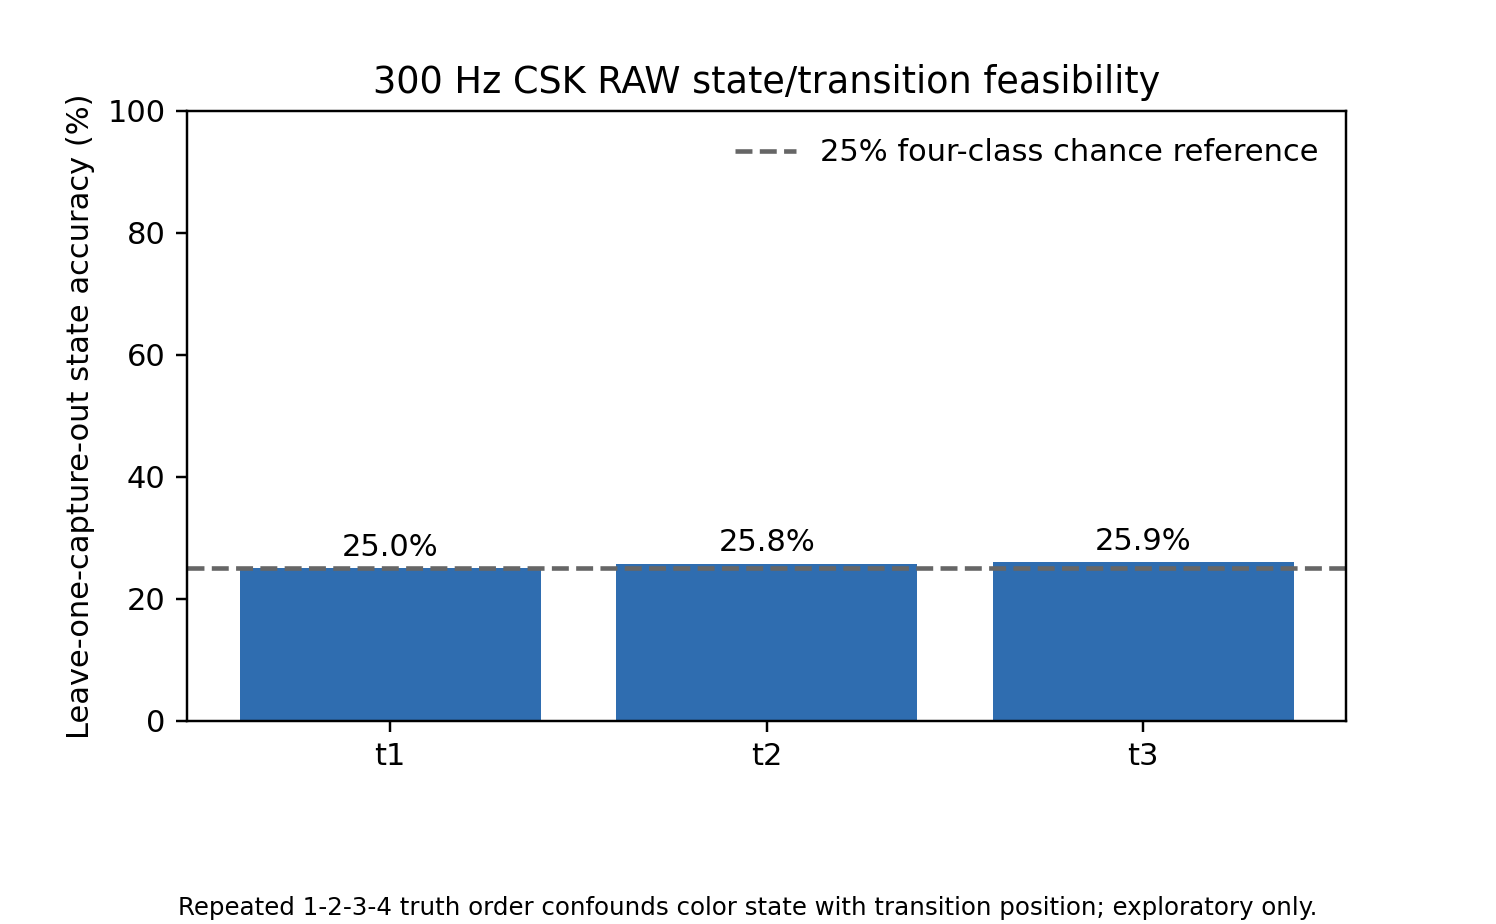
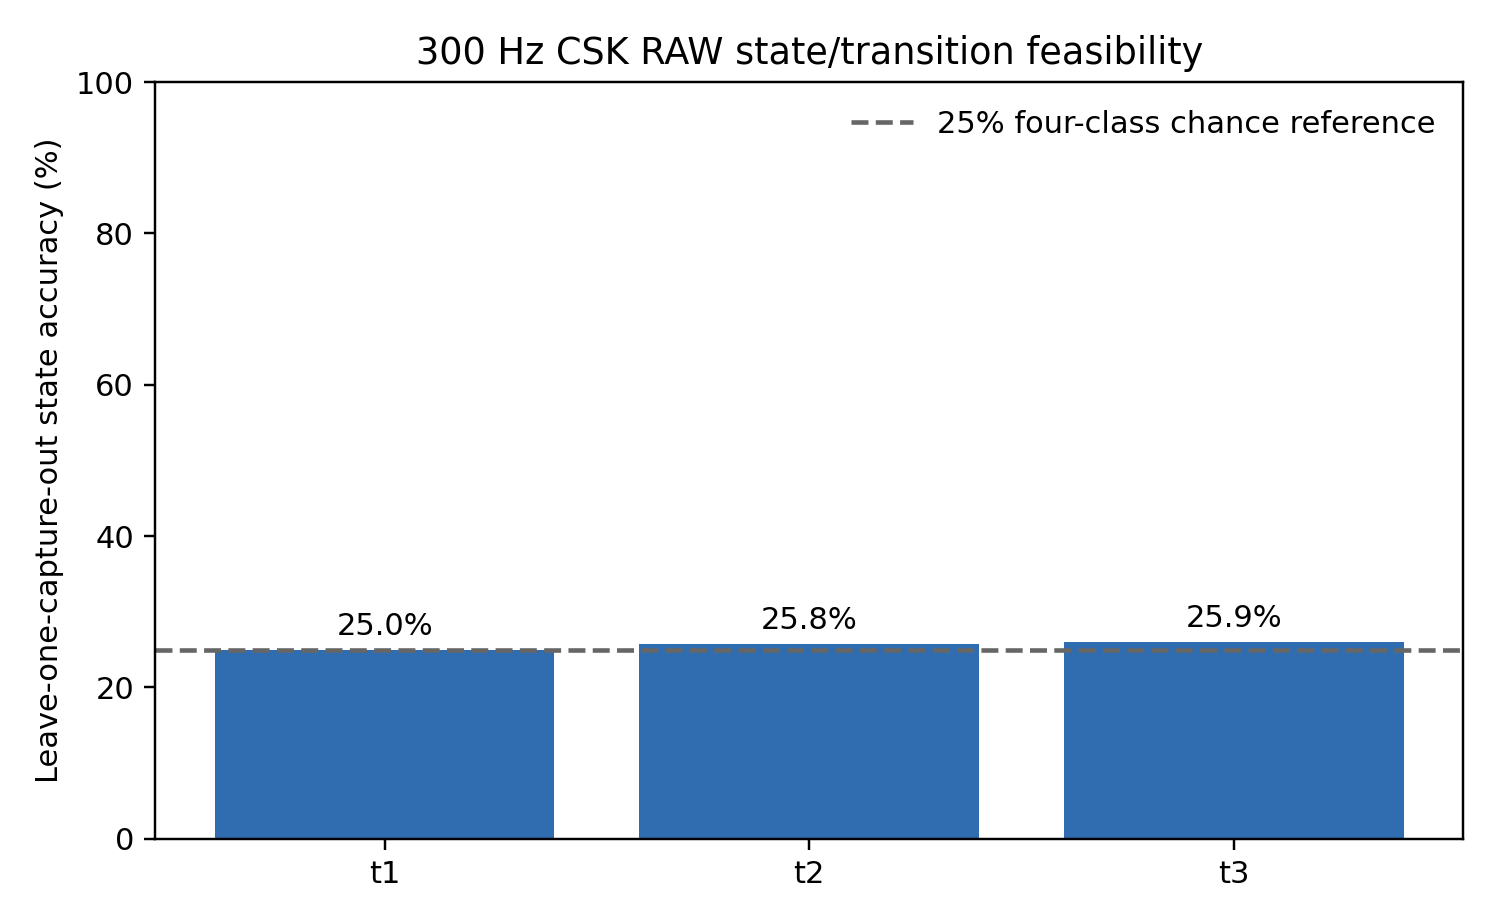
first thesis draft

diff --git a/src/3.2/section3_2_energy_analyze.py b/src/3.2/section3_2_energy_analyze.py
@@ -952,6 +952,57 @@ def plot_metric(
     plt.close(fig)
 
 
+def plot_single_energy_estimate(
+    summary_rows: Sequence[Dict[str, object]],
+    out_path: str,
+) -> None:
+    """Plot one energy estimate as a horizontal uncertainty interval.
+
+    A frequency-versus-energy chart is misleading when a manifest contains
+    only one validated operating point.  This view instead presents the same
+    mean and combined uncertainty directly in mJ/bit.
+    """
+    if len(summary_rows) != 1:
+        return
+
+    row = summary_rows[0]
+    estimate_mj = float(row["mean_active_j_per_tx_bit"]) * 1e3
+    uncertainty_mj = float(row["plot_active_j_per_tx_bit_yerr"]) * 1e3
+    if not (math.isfinite(estimate_mj) and math.isfinite(uncertainty_mj)):
+        return
+
+    frequency_hz = format_value(row["frequency_hz"])
+    fig, ax = plt.subplots(figsize=(8.0, 3.5))
+    ax.errorbar(
+        estimate_mj,
+        0,
+        xerr=uncertainty_mj,
+        fmt="o",
+        color="#1f77b4",
+        markersize=7,
+        linewidth=2,
+        capsize=5,
+    )
+    ax.set_yticks([0])
+    ax.set_yticklabels([f"EVK4 receiver\n{frequency_hz} Hz OOK"])
+    ax.set_xlabel("Active energy per transmitted bit (mJ/bit)")
+    ax.set_title("Section 3.2 Active Energy per Transmitted Bit")
+    ax.grid(axis="x", alpha=0.25)
+    padding = max(uncertainty_mj * 1.6, estimate_mj * 0.08)
+    ax.set_xlim(max(0.0, estimate_mj - padding), estimate_mj + padding)
+    ax.annotate(
+        f"{estimate_mj:.3f} ± {uncertainty_mj:.3f} mJ/bit",
+        xy=(estimate_mj, 0),
+        xytext=(0, 18),
+        textcoords="offset points",
+        ha="center",
+        va="bottom",
+    )
+    fig.tight_layout()
+    fig.savefig(out_path, dpi=300)
+    plt.close(fig)
+
+
 def main() -> None:
     repo_root = repo_root_from_this_file(__file__)
     default_manifest = os.path.join(repo_root, "data", "3.2", "section3_2_energy_manifest_template.csv")
@@ -1028,6 +1079,7 @@ def main() -> None:
         return
 
     energy_plot = os.path.join(plot_dir, f"{args.out_prefix}_active_j_per_tx_bit_vs_{args.x_field}.png")
+    energy_estimate_plot = os.path.join(plot_dir, f"{args.out_prefix}_active_energy_estimate_interval.png")
     ber_plot = os.path.join(plot_dir, f"{args.out_prefix}_ber_vs_{args.x_field}.png")
 
     plot_metric(
@@ -1040,6 +1092,7 @@ def main() -> None:
         title="Section 3.2 Active Energy per Transmitted Bit",
         ylabel="Active energy per transmitted bit (J/bit)",
     )
+    plot_single_energy_estimate(summary_rows=summary_rows, out_path=energy_estimate_plot)
     plot_metric(
         summary_rows=summary_rows,
         x_field=args.x_field,
@@ -1052,6 +1105,8 @@ def main() -> None:
     )
 
     print(f"Saved plot: {energy_plot}")
+    if len(summary_rows) == 1:
+        print(f"Saved plot: {energy_estimate_plot}")
     print(f"Saved plot: {ber_plot}")
 
 

diff --git a/src/3.4/section3_4_csk_raw_feasibility.py b/src/3.4/section3_4_csk_raw_feasibility.py
@@ -242,8 +242,7 @@ def write_outputs(trials, roi):
     ax.legend(frameon=False)
     for bar, value in zip(bars, accuracies):
         ax.text(bar.get_x() + bar.get_width() / 2, value + 2, f"{value:.1f}%", ha="center")
-    fig.text(0.5, 0.01, "Repeated 1-2-3-4 truth order confounds color state with transition position; exploratory only.", ha="center", fontsize=8)
-    fig.subplots_adjust(bottom=0.22)
+    fig.tight_layout()
     fig.savefig(plot, dpi=220)
     plt.close(fig)
     return per_symbol, per_trial, summary, confusion, plot
